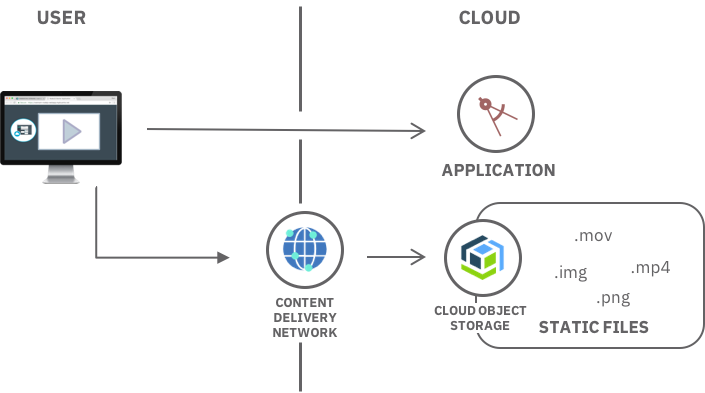
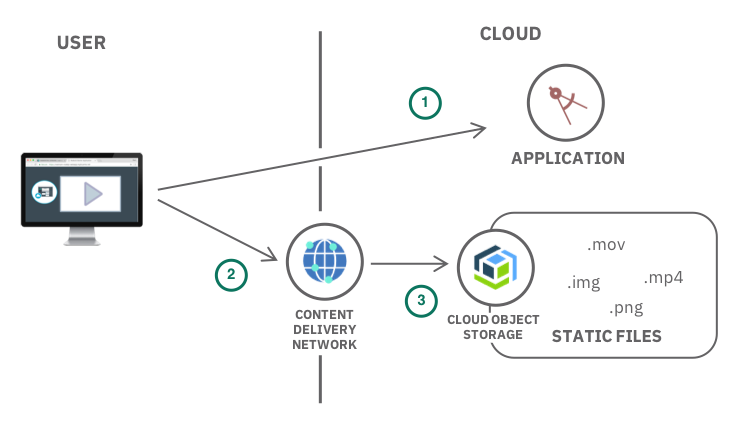
best practices

diff --git a/static-files-cdn.md b/static-files-cdn.md
@@ -12,27 +12,44 @@ lastupdated: "2018-04-18"
 {:tip: .tip}
 {:pre: .pre}
 
-
 # Accelerate delivery of static files using a CDN
 
-This tutorial walks you through how to host and serve website assets (images, videos, documents) and user generated content in a {{site.data.keyword.cos_full_notm}}, and how to use a Content Delivery Network (CDN) for fast and secure delivery to users around the world.
+This tutorial walks you through how to host and serve website assets (images, videos, documents) and user generated content in a {{site.data.keyword.cos_full_notm}}, and how to use a [Content Delivery Network (CDN)](https://console.bluemix.net/catalog/infrastructure/cdn-powered-by-akamai) for fast and secure delivery to users around the world.
+
+Web applications have different types of content: HTML content, images, videos, cascading style sheets, JavaScript files, user-generated content. Some contents change often, others not so much, some are accessed very often by lot of users, others occasionally. As the audience for the application grows, you may want to offload serving these contents to another component, freeing resources for your main application. You may also want to have these contents served from a location close to your application users, wherever they are in the world.
+
+There are many reasons why you would use a Content Delivery Network in these situations:
+* the CDN will cache the content, pulling the content from the origin (your servers) only it is not available in its cache or if it has expired;
+* with multiple data centers across the world, the CDN will serve the cached content from the closest location for your users;
+* running on a different domain that your main application, the browser will be able to load more contents in parallel - most browsers have a limit in the number of connections per hostname.
 
 ## Objectives
 {: #objectives}
 
-* Create a {{site.data.keyword.cos_full_notm}} bucket.
-* Upload files to a bucket.
+* Upload files to a {{site.data.keyword.cos_full_notm}} bucket.
 * Make the content globally available with a CDN.
 * Expose files by using a Cloud Foundry web application.
 
-![](images/solution3/Architecture.png)
-
-## Products
+## Services used
+{: #services}
 
 This tutorial uses the following products:
    * [{{site.data.keyword.cos_full_notm}}](https://console.bluemix.net/docs/services/cloud-object-storage/about-cos.html#about-ibm-cloud-object-storage)
    * [Content Delivery Network](https://console.bluemix.net/catalog/infrastructure/cdn-powered-by-akamai)
 
+This tutorial may incur costs. Use the [Pricing Calculator](https://console.bluemix.net/pricing/) to generate a cost estimate based on your projected usage.
+
+## Architecture
+
+<p style="text-align: center;">
+
+![Architecture](images/solution3/Architecture.png)
+</p>
+
+1. The user accesses the application
+2. The application includes content distributed through a Content Delivery Network
+3. If the content is not available locally or has expired, the CDN pulls the content from the origin.
+  
 ## Before you begin
 {: #prereqs}
 
@@ -42,15 +59,6 @@ Contact the master user of your Infrastructure account to get the following perm
    * API Key
 
 These permissions are required to be able to view and use the Storage and CDN services.
-
-## About Content Delivery Network
-
-Web applications have different types of content: HTML content, images, videos, cascading style sheets, JavaScript files, user-generated content. Some contents change often, others not so much, some are accessed very often by lot of users, others occasionally. As the audience for the application grows, you may want to offload serving these contents to another component, freeing resources for your main application. You may also want to have these contents served from a location close to your application users, wherever they are in the world.
-
-There are many reasons why you would use a Content Delivery Network in these situations:
-* the CDN will cache the content, pulling the content from the origin (your servers) only it is not available in its cache or if it has expired;
-* with multiple data centers across the world, the CDN will serve the cached content from the closest location for your users;
-* running on a different domain that your main application, the browser will be able to load more contents in parallel - most browsers have a limit in the number of connections per hostname.
 
 ## Get the web application code
 {: #get_code}
@@ -193,7 +201,13 @@ The application contains a public/index.html web page that includes references t
 
 Using a CDN with {{site.data.keyword.cos_full_notm}} is a powerful combination which lets you host files and serve them to users from around the world. You can also use {{site.data.keyword.cos_full_notm}} to store any files your users upload to your application.
 
-## Related information
+## Remove services
+
+* Delete the Cloud Foundry application
+* Delete the Content Delivery Network service
+* Delete the {{site.data.keyword.cos_full_notm}} service or bucket
+
+## Related content
 
 [{{site.data.keyword.cos_full_notm}}](https://console.bluemix.net/docs/services/cloud-object-storage/about-cos.html#about-ibm-cloud-object-storage)
 
